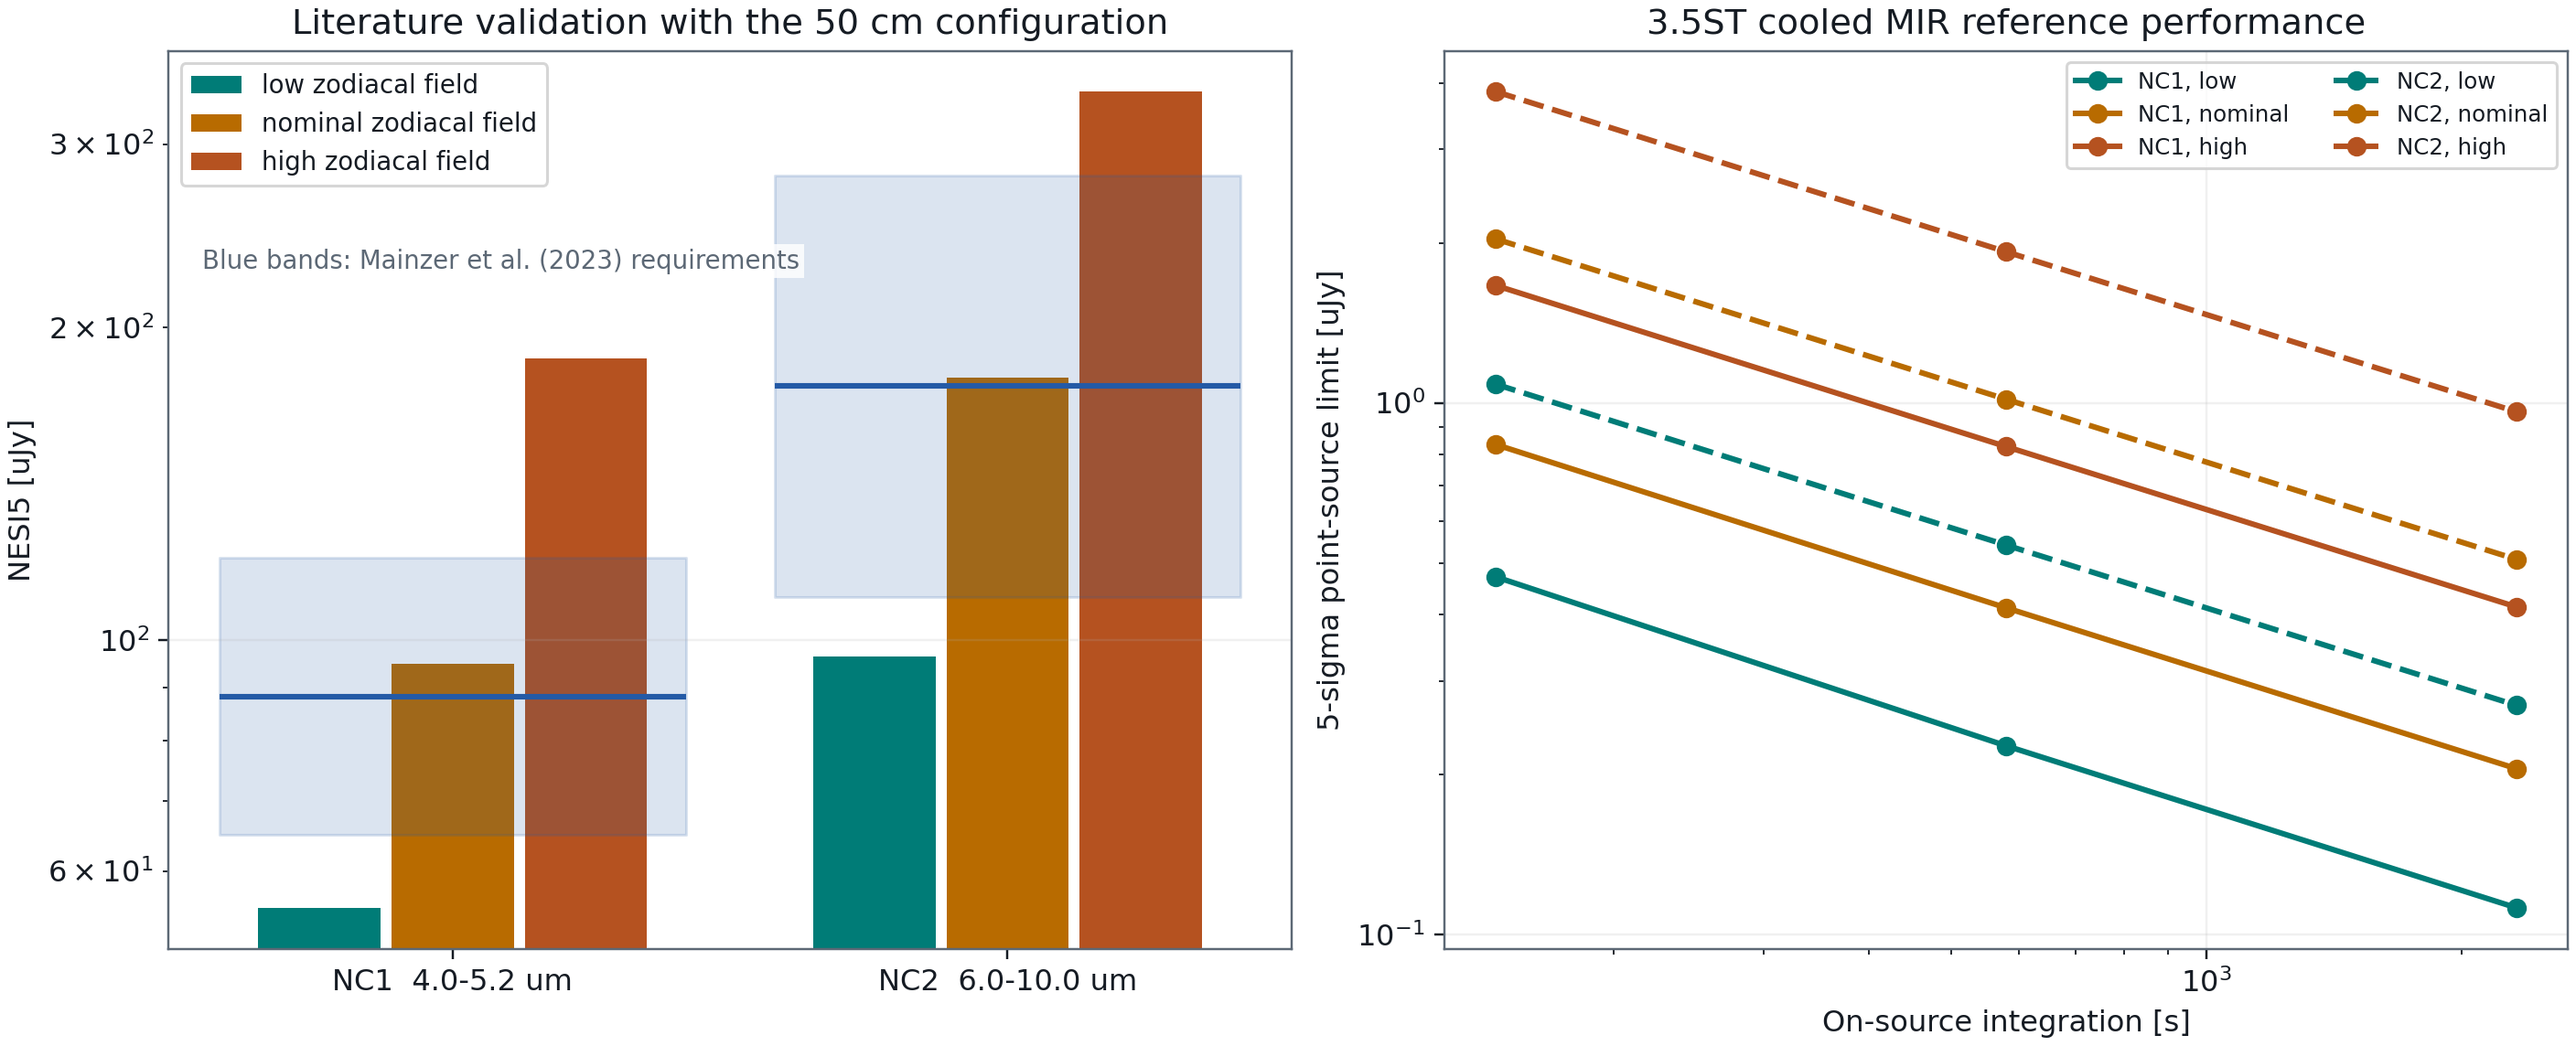
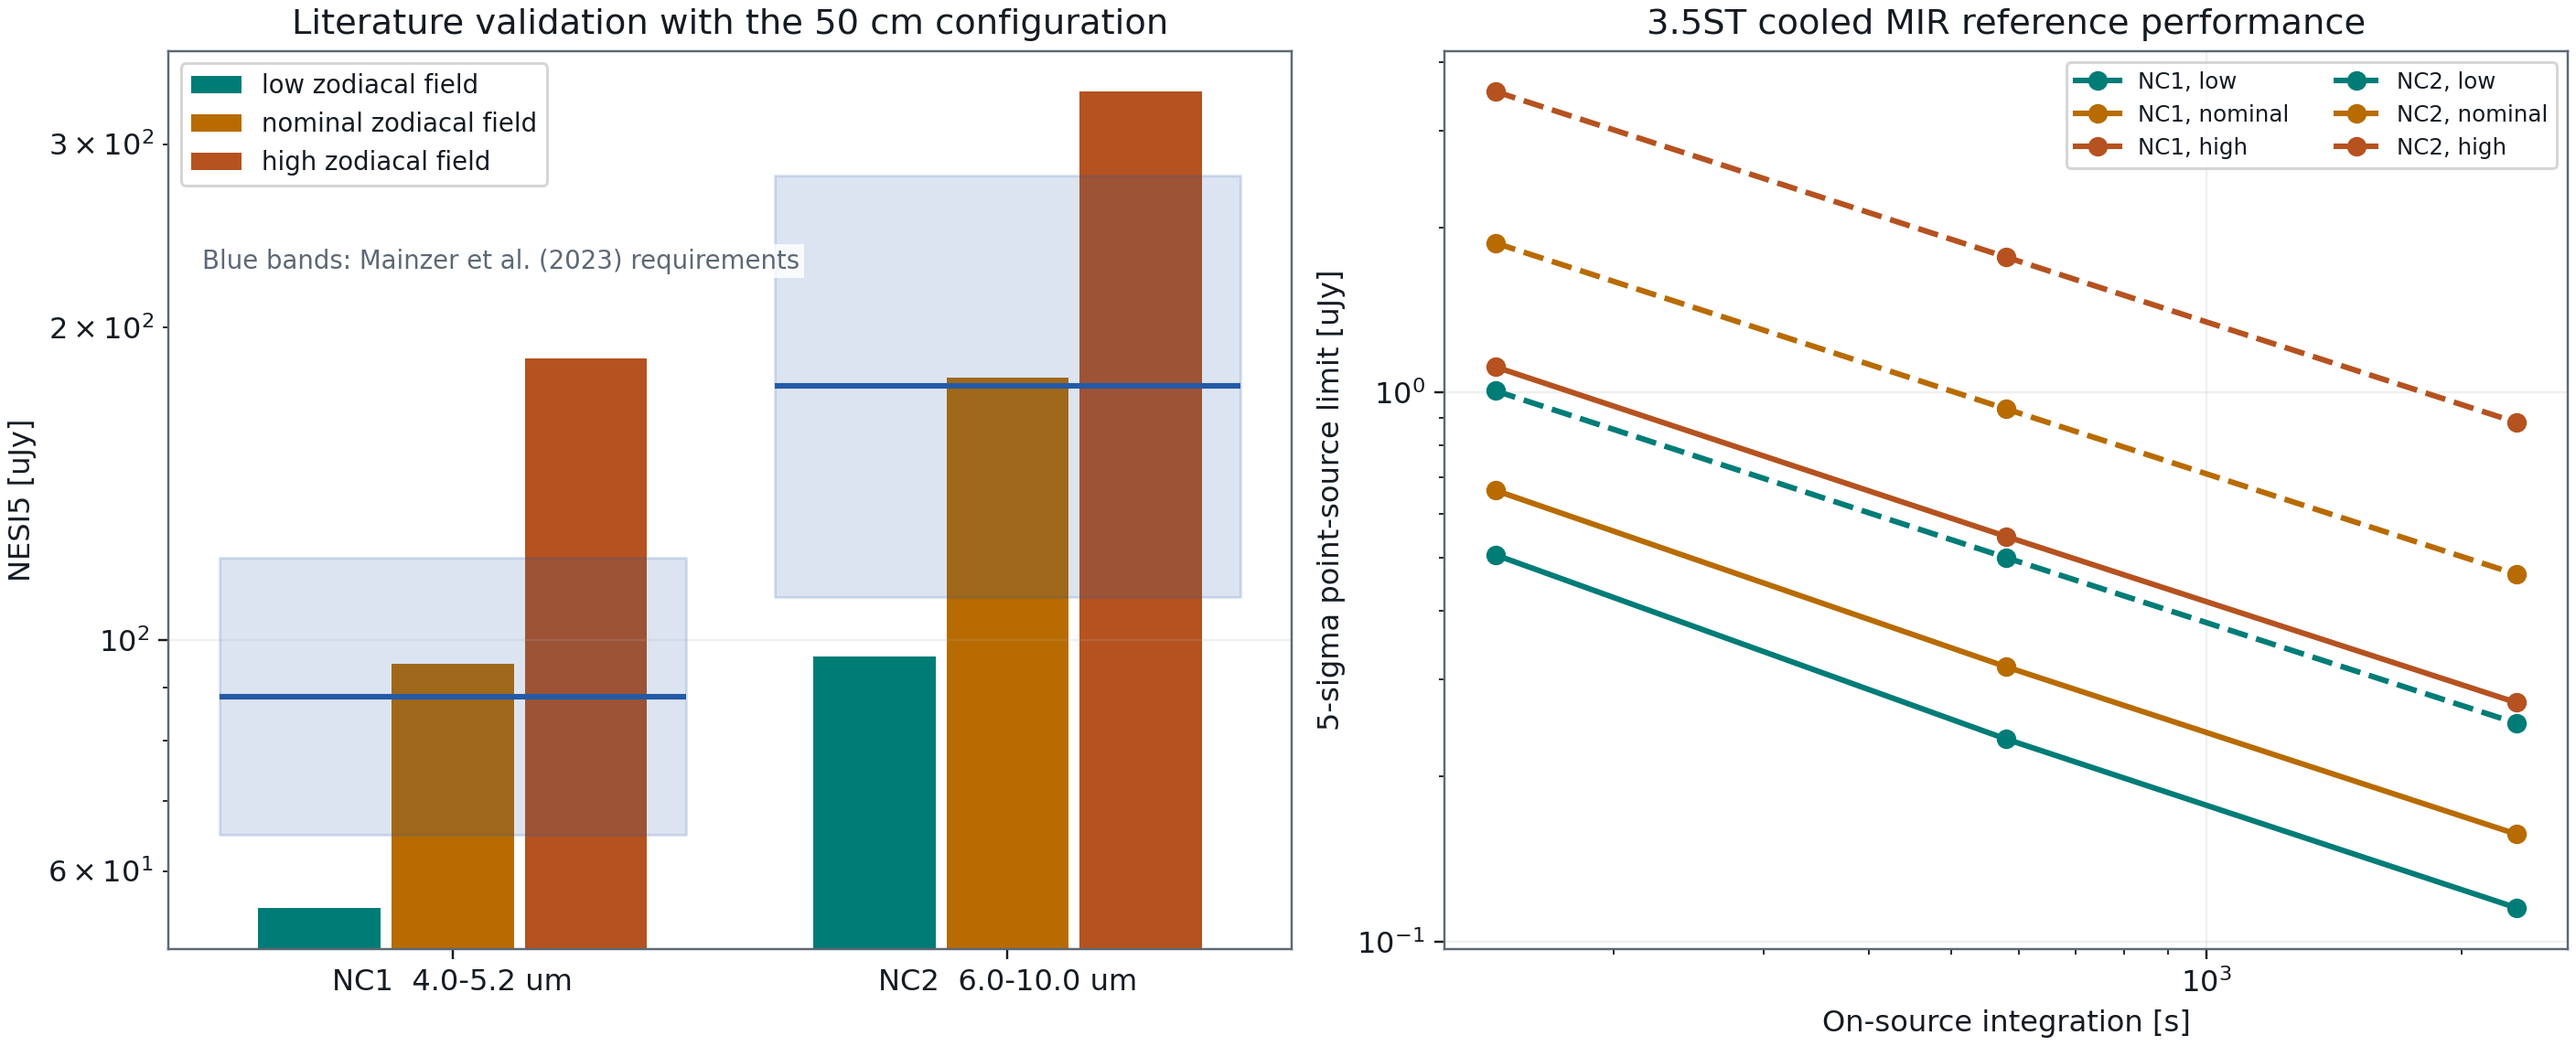
Correct MIR sampling and clarify ETC notation

diff --git a/appendix_C_solar_system.tex b/appendix_C_solar_system.tex
@@ -84,6 +84,8 @@
 \newcolumntype{P}[1]{>{\raggedright\arraybackslash}p{#1}}
 \newcolumntype{M}[1]{>{\raggedright\arraybackslash}m{#1}}
 \newcolumntype{C}[1]{>{\centering\arraybackslash}m{#1}}
+\newcolumntype{T}[1]{>{\vspace{0pt}\raggedright\arraybackslash}p{#1}}
+\newcolumntype{Z}{>{\vspace{0pt}\raggedright\arraybackslash}X}
 \emergencystretch=3em
 
 \newtcolorbox{resultbox}[1][]{
@@ -136,7 +138,7 @@ create a thermal-infrared survey.
 
 \vspace{2mm}
 \noindent
-\begin{tabularx}{\textwidth}{@{}>{\bfseries\color{cGold}\raggedright\arraybackslash}p{31mm}Y@{}}
+\begin{tabularx}{\textwidth}{@{}>{\bfseries\color{cGold}}T{31mm}Z@{}}
 Proposal role & Planetary defense and small-body population science with a
 clear separation between discovery and post-discovery characterization.\\
 Baseline claim & High-value follow-up, physical characterization, and orbit
@@ -159,8 +161,10 @@ the program into four products.
 
 \begin{enumerate}[leftmargin=7mm,itemsep=2mm]
 \item \textbf{\color{cTeal}Recovery and astrometry.} Measure accurate
-ICRF positions for recently discovered objects and extend the observational
-arc before ephemeris uncertainty grows.
+positions in the International Celestial Reference Frame (ICRF), the
+quasar-defined inertial reference frame used for high-accuracy celestial
+astrometry, for recently discovered objects and extend the observational arc
+before ephemeris uncertainty grows.
 \item \textbf{\color{cGold}Physical characterization.} Measure colors,
 spectra, light curves, phase behavior, and thermal flux when a mid-infrared
 channel is present.
@@ -289,8 +293,11 @@ rectangular passband. A flat $F_\nu$ point source produces
  {\cal E}(\lambda,r_{\rm ap})\,d\lambda ,
  \label{eq:mir-source-rate}
 \end{equation}
-where ${\cal E}$ is the encircled energy inside the photometric aperture. The
-diffuse-background rate per pixel is
+Here the left-hand side $\dot N_{\rm src}$ is the detected source
+photoelectron rate, in e$^-$\,s$^{-1}$, integrated over the passband and the
+photometric aperture. The factor ${\cal E}$ is the wavelength-dependent
+encircled-energy fraction inside that aperture. The diffuse-background rate
+per detector pixel is
 \begin{equation}
  \dot N_{\rm bg,pix}
  = A_{\rm eff}\Omega_{\rm pix}
@@ -299,6 +306,11 @@ diffuse-background rate per pixel is
  \eta(\lambda)\,d\lambda .
  \label{eq:mir-background-rate}
 \end{equation}
+The left-hand side $\dot N_{\rm bg,pix}$ is therefore the detected
+background photoelectron rate in one physical pixel, in
+e$^-$\,s$^{-1}$\,pixel$^{-1}$; it is not the total background in the source
+aperture. The ETC multiplies it by the extraction-aperture pixel count before
+forming the noise variance.
 The zodiacal input uses the DIRBE convention $\nu I_\nu$. The adopted low and
 high levels are 220 and 4200\,nW\,m$^{-2}$\,sr$^{-1}$ in MIR-1 and 1700 and
 22,000\,nW\,m$^{-2}$\,sr$^{-1}$ in MIR-2. The values and their variation
@@ -318,7 +330,10 @@ measured component values.}
 \textbf{\color{cGold}MIR-2}\\
 \midrule
 Bandpass & 4.0--5.2\,$\mu$m & 6.0--10.0\,$\mu$m\\
-Pixel scale & 0.35 arcsec pixel$^{-1}$ & 0.35 arcsec pixel$^{-1}$\\
+Pivot wavelength & 4.56\,$\mu$m & 7.75\,$\mu$m\\
+Nyquist pixel scale at $\lambda_p$ &
+0.134 arcsec pixel$^{-1}$ &
+0.228 arcsec pixel$^{-1}$\\
 End-to-end throughput & 0.30 & 0.30\\
 Telescope temperature & $55$\,K & $55$\,K\\
 Telescope emissivity & 0.10 & 0.10\\
@@ -335,6 +350,19 @@ Field & $30'\times30'$ (0.25\,deg$^2$) & $30'\times30'$ (0.25\,deg$^2$)\\
 \end{tabularx}
 \label{tab:mir-etc-requirements}
 \end{table}
+
+The tabulated detector sampling is not one wavelength-independent value. It
+uses
+\begin{equation*}
+ s_{\rm pix}(\lambda_p)=206265\,\frac{\lambda_p}{2D}
+ \quad {\rm arcsec\ pixel^{-1}},
+\end{equation*}
+at each channel's geometric pivot wavelength $\lambda_p$, with $D=3.5$\,m.
+The physical pixel scale of any one focal plane is fixed; the wavelength
+dependence in Table~\ref{tab:mir-etc-requirements} is a two-channel design
+requirement and therefore needs separate detector pixel pitches or re-imaging
+optics. A common 0.35 arcsec pixel$^{-1}$ focal plane would undersample both
+channels, most severely MIR-1, and is no longer used by the ETC.
 
 The reference visit follows the six-dither and 145\,s net-integration format
 used by NEO Surveyor \cite{Mainzer2023}. The 3.5ST field remains much smaller
@@ -355,8 +383,8 @@ columns span the published zodiacal-background range.}
 \textbf{\color{cGold}High}\\
  & & & \multicolumn{3}{c}{\textbf{\color{cMuted}$5\sigma$ limit [$\mu$Jy]}}\\
 \midrule
-MIR-1 & 4.0--5.2\,$\mu$m & 0.29 arcsec & 0.47 & 0.83 & 1.66\\
-MIR-2 & 6.0--10.0\,$\mu$m & 0.48 arcsec & 1.08 & 2.03 & 3.85\\
+MIR-1 & 4.0--5.2\,$\mu$m & 0.29 arcsec & 0.51 & 0.66 & 1.11\\
+MIR-2 & 6.0--10.0\,$\mu$m & 0.48 arcsec & 1.01 & 1.87 & 3.53\\
 \bottomrule
 \end{tabularx}
 \label{tab:mir-etc-depth}

diff --git a/slitless_etc.py b/slitless_etc.py
@@ -862,6 +862,12 @@ MIR_CHANNELS = {
 }
 
 
+def diffraction_nyquist_pixel_scale_arcsec(wavelength_um, diameter_cm):
+    """Nyquist detector sampling lambda/(2D), in arcsec per pixel."""
+    wavelength_cm = float(wavelength_um) * 1e-4
+    return 206265.0 * wavelength_cm / (2.0 * float(diameter_cm))
+
+
 def mir_imaging_cfg(channel="NC2", background="nominal",
                     observatory="3.5mST", **overrides):
     """Construct a cooled MIR survey-imaging configuration.
@@ -881,8 +887,9 @@ def mir_imaging_cfg(channel="NC2", background="nominal",
     band_A = (lo_um * 1e4, hi_um * 1e4)
 
     if observatory == "3.5mST":
+        pivot_um = np.sqrt(lo_um * hi_um)
         values = dict(
-            diameter_cm=350.0, obstruction=0.15, pix_scale=0.35,
+            diameter_cm=350.0, obstruction=0.15, pix_scale=0.0,
             read_noise=15.0, dark_current=0.01, n_exp=6, n_groups=8,
             eta_peak=0.30, band_min_A=band_A[0], band_max_A=band_A[1],
             edge_roll_A=500.0, dichroic_split_A=0.0, tel_temp=55.0,
@@ -908,6 +915,9 @@ def mir_imaging_cfg(channel="NC2", background="nominal",
         raise ValueError(f"Unknown MIR observatory {observatory!r}")
 
     values.update(overrides)
+    if observatory == "3.5mST" and "pix_scale" not in overrides:
+        values["pix_scale"] = diffraction_nyquist_pixel_scale_arcsec(
+            pivot_um, values["diameter_cm"])
     values["imaging_sky_nuinu_nw_m2_sr"] = (
         (band_A[0], band_A[1], nuinu),)
     return InstrumentConfig(**values)
@@ -926,7 +936,7 @@ TELESCOPE_PRESETS = {
     "3.5mST":         dict(det="HgCdTe (concept)", diam=350., obstruction=0.15,  pix=0.11,  eta=0.30,
                            read=8., dark=0.010, nexp=3, fw=100000., ttel=270., R=1000., band=(0.36, 3.00), lam=1.6, split=10000., realistic=True),
     "3.5mST MIR":     dict(det="40 K HgCdTe MIR array (requirement)", diam=350., obstruction=0.15,
-                           pix=0.35, eta=0.30, read=15., dark=0.010, nexp=6,
+                           pix=0.134, eta=0.30, read=15., dark=0.010, nexp=6,
                            fw=100000., ttel=55., R=10., band=(4.00, 10.00),
                            lam=7.75, split=0., realistic=False),
     "Roman WFI":      dict(det="H4RG-10", diam=240., obstruction=0.31,  pix=0.11,  eta=0.42,

diff --git a/etc_gui.py b/etc_gui.py
@@ -99,7 +99,8 @@ class ETCGui:
         self.filter_cb = ttk.Combobox(frow, textvariable=self.imaging_filter,
                                       state="readonly", width=17)
         self.filter_cb.pack(side="left")
-        self.filter_cb.bind("<<ComboboxSelected>>", lambda _e: self.compute())
+        self.filter_cb.bind(
+            "<<ComboboxSelected>>", lambda _e: self._on_filter_change())
         field(obs, "spectral λ [µm]", "lam", "1.6")
         field(obs, "spectral band [µm]", "fw_um", "0.40")
         field(obs, "resolving power R", "R", "1000")
@@ -170,6 +171,7 @@ class ETCGui:
         if self.telescope.get() == "3.5mST MIR":
             self.mode.set("Imaging")
         self.refresh_elements()
+        self._sync_mir_pixel_scale(compute=False)
         self.compute()
 
     def _modes(self):
@@ -234,14 +236,24 @@ class ETCGui:
             return "high"
         return "nominal"
 
+    def _sync_mir_pixel_scale(self, compute=True):
+        channel = self._mir_channel()
+        if channel:
+            cfg = etc.mir_imaging_cfg(
+                channel, self._mir_background_level(),
+                diameter_cm=self._f("diam"))
+            self.v["pix"].set(f"{cfg.pix_scale:.4f}")
+        if compute:
+            self.compute()
+
+    def _on_filter_change(self):
+        self._sync_mir_pixel_scale()
+
     def _mir_cfg(self, filter_name=None):
         channel = self._mir_channel(filter_name)
-        return etc.mir_imaging_cfg(
-            channel,
-            self._mir_background_level(),
+        overrides = dict(
             diameter_cm=self._f("diam"),
             obstruction=self._obs,
-            pix_scale=self._f("pix"),
             eta_peak=self._f("eta"),
             read_noise=self._f("read"),
             dark_current=self._f("dark"),
@@ -252,6 +264,12 @@ class ETCGui:
             stray_star_sep_arcsec=self._f("straysep"),
             ipc_alpha=self._f("ipc"),
         )
+        if filter_name is None:
+            overrides["pix_scale"] = self._f("pix")
+        return etc.mir_imaging_cfg(
+            channel,
+            self._mir_background_level(),
+            **overrides)
 
     def cfg(self):
         if self.telescope.get() == "3.5mST MIR":

diff --git a/validate_mir_etc.py b/validate_mir_etc.py
@@ -142,6 +142,15 @@ def make_figure():
 def validate():
     failures = []
     for channel in ("NC1", "NC2"):
+        cfg = etc.mir_imaging_cfg(channel)
+        pivot_um = np.sqrt(np.prod(etc.MIR_CHANNELS[channel]["band_um"]))
+        expected_scale = etc.diffraction_nyquist_pixel_scale_arcsec(
+            pivot_um, cfg.diameter_cm)
+        if not np.isclose(cfg.pix_scale, expected_scale, rtol=0.0, atol=1e-12):
+            failures.append(
+                f"{channel} pixel scale is not lambda/(2D): "
+                f"{cfg.pix_scale:.6f} versus {expected_scale:.6f} arcsec")
+
         model = limit_ujy("NEO Surveyor", channel, "nominal", 145.0)
         published = np.sqrt(np.prod(PUBLISHED_NESI5_UJY[channel]))
         residual = model / published - 1.0
@@ -178,7 +187,9 @@ def main():
         nominal = limit_ujy("3.5mST", channel, "nominal", 145.0)
         high = limit_ujy("3.5mST", channel, "high", 145.0)
         print(
-            f"{channel} 145 s NESI5: {low:.2f}, {nominal:.2f}, "
+            f"{channel} pixel scale: "
+            f"{etc.mir_imaging_cfg(channel).pix_scale:.4f} arcsec; "
+            f"145 s NESI5: {low:.2f}, {nominal:.2f}, "
             f"{high:.2f} uJy; 55 K thermal fraction "
             f"{thermal_fraction(channel):.3%}")
     print(CSV_PATH)

diff --git a/test_mir_etc.py b/test_mir_etc.py
@@ -24,6 +24,19 @@ def test_mir_flux_limit_inverts_snr():
         )
 
 
+def test_mir_pixel_scale_tracks_channel_pivot_wavelength():
+    scales = {}
+    for channel in ("NC1", "NC2"):
+        cfg = etc.mir_imaging_cfg(channel, "nominal")
+        pivot_um = np.sqrt(np.prod(etc.MIR_CHANNELS[channel]["band_um"]))
+        expected = etc.diffraction_nyquist_pixel_scale_arcsec(
+            pivot_um, cfg.diameter_cm)
+        assert np.isclose(cfg.pix_scale, expected, rtol=0.0, atol=1e-12)
+        scales[channel] = cfg.pix_scale
+
+    assert scales["NC1"] < scales["NC2"]
+
+
 def test_mir_limit_improves_with_exposure_and_aperture():
     band = (6.0e4, 10.0e4)
     cfg = etc.mir_imaging_cfg("NC2", "nominal")
